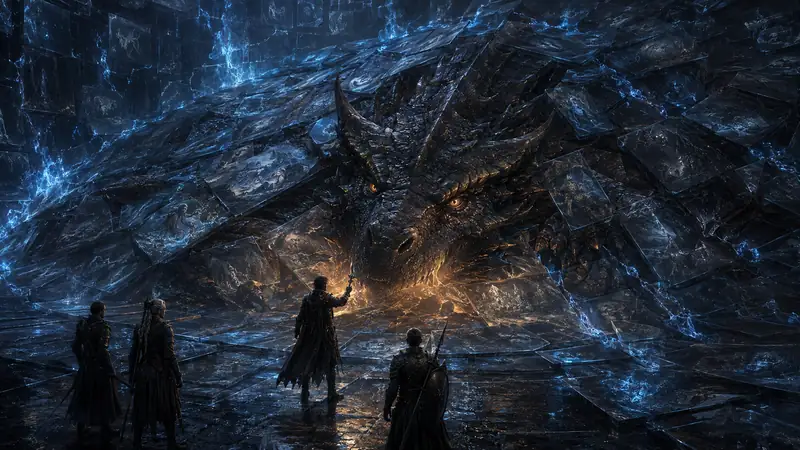
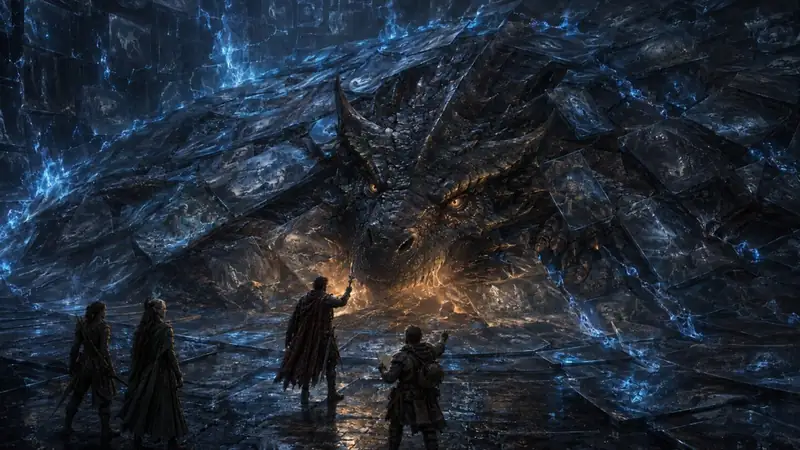
Correct Vaor memory-grave art to show the full Dragonspine party.

diff --git a/app/scene-art.ts b/app/scene-art.ts
@@ -112,7 +112,7 @@ export const sceneArtwork: Record<SceneArtKey, SceneArtwork> = {
   ),
   vaor: plate(
     'vaor-memory-grave',
-    'Caelan finds the ancient dragon Vaor imprisoned beneath glass memories',
+    'Caelan, Mara, Lysara, and Sorin stand before Vaor imprisoned in memory glass',
   ),
   ember: plate(
     'ember-bearer-vision',
